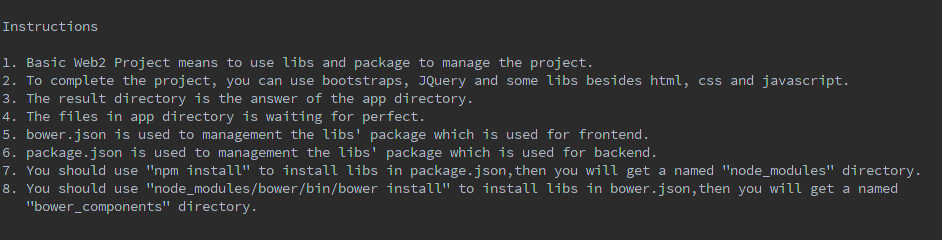
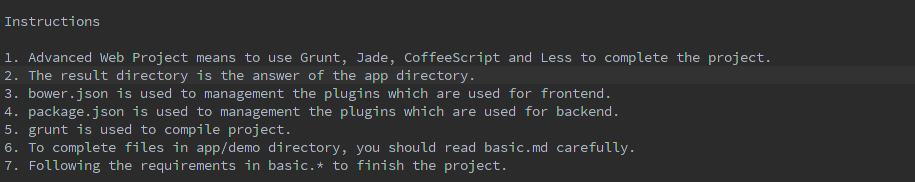
Complete the AdvancedWebProject

Changed region(s): [[0.0, 0.3846, 0.9792, 0.9615], [0.0, 0.2473, 0.918, 0.3571], [0.0, 0.0824, 0.1224, 0.1648]]

diff --git a/AdvancedWebProject/app/demo/basic.less b/AdvancedWebProject/app/demo/basic.less
@@ -2,9 +2,11 @@
   width: 360px;
   margin: 90px auto 0 auto;
 }
+
 .form-bg {
   box-shadow: 0px 1px 3px rgba(0, 0, 0, 0.1);
 }
+
 .body {
   -webkit-box-shadow: 0px 2px 3px 0px rgba(194, 194, 194, 0.5);
   -moz-box-shadow: 0px 2px 3px 0px rgba(194, 194, 194, 0.5);
@@ -13,10 +15,12 @@
   padding-left: 20px;
   padding-right: 20px;
 }
+
 .footer {
   height: 60px;
   margin-top: 40px;
 }
+
 .logoCenter {
   text-align: center;
   margin-top: 30px;
@@ -24,6 +28,7 @@
   margin-left: auto;
   margin-right: auto;
 }
+
 .logoCenterText {
   text-align: center;
   color: #017FE5;
@@ -31,14 +36,17 @@
   margin-top: 20px;
   margin-bottom: 40px;
 }
+
 .form-login {
   margin-top: 20px;
   margin-bottom: 5px;
   text-align: center;
 }
+
 .form-control {
   height: 40px !important;
 }
+
 .loginButton {
   display: inline-block;
   padding: 6px 12px;
@@ -51,15 +59,17 @@
   background-image: -webkit-linear-gradient(90deg, #017fe5 0%, #158ade 100%) !important;
   background-image: -ms-linear-gradient(90deg, #017fe5 0%, #158ade 100%);
 }
+
 .captchaInput {
   position: relative;
   width: 50% !important;
   float: left;
 }
-.downloadUrl {
-  text-align: center;
-}
 
 // TODO: 1
 // 1. 新增一个样式，名为“buttonClick”。
 // 2. 颜色为“#ff2f2f !important”。
+
+// TODO: 2
+// 1. 新增一个样式，名为“downloadUrl”。
+// 2. 内容居中。
